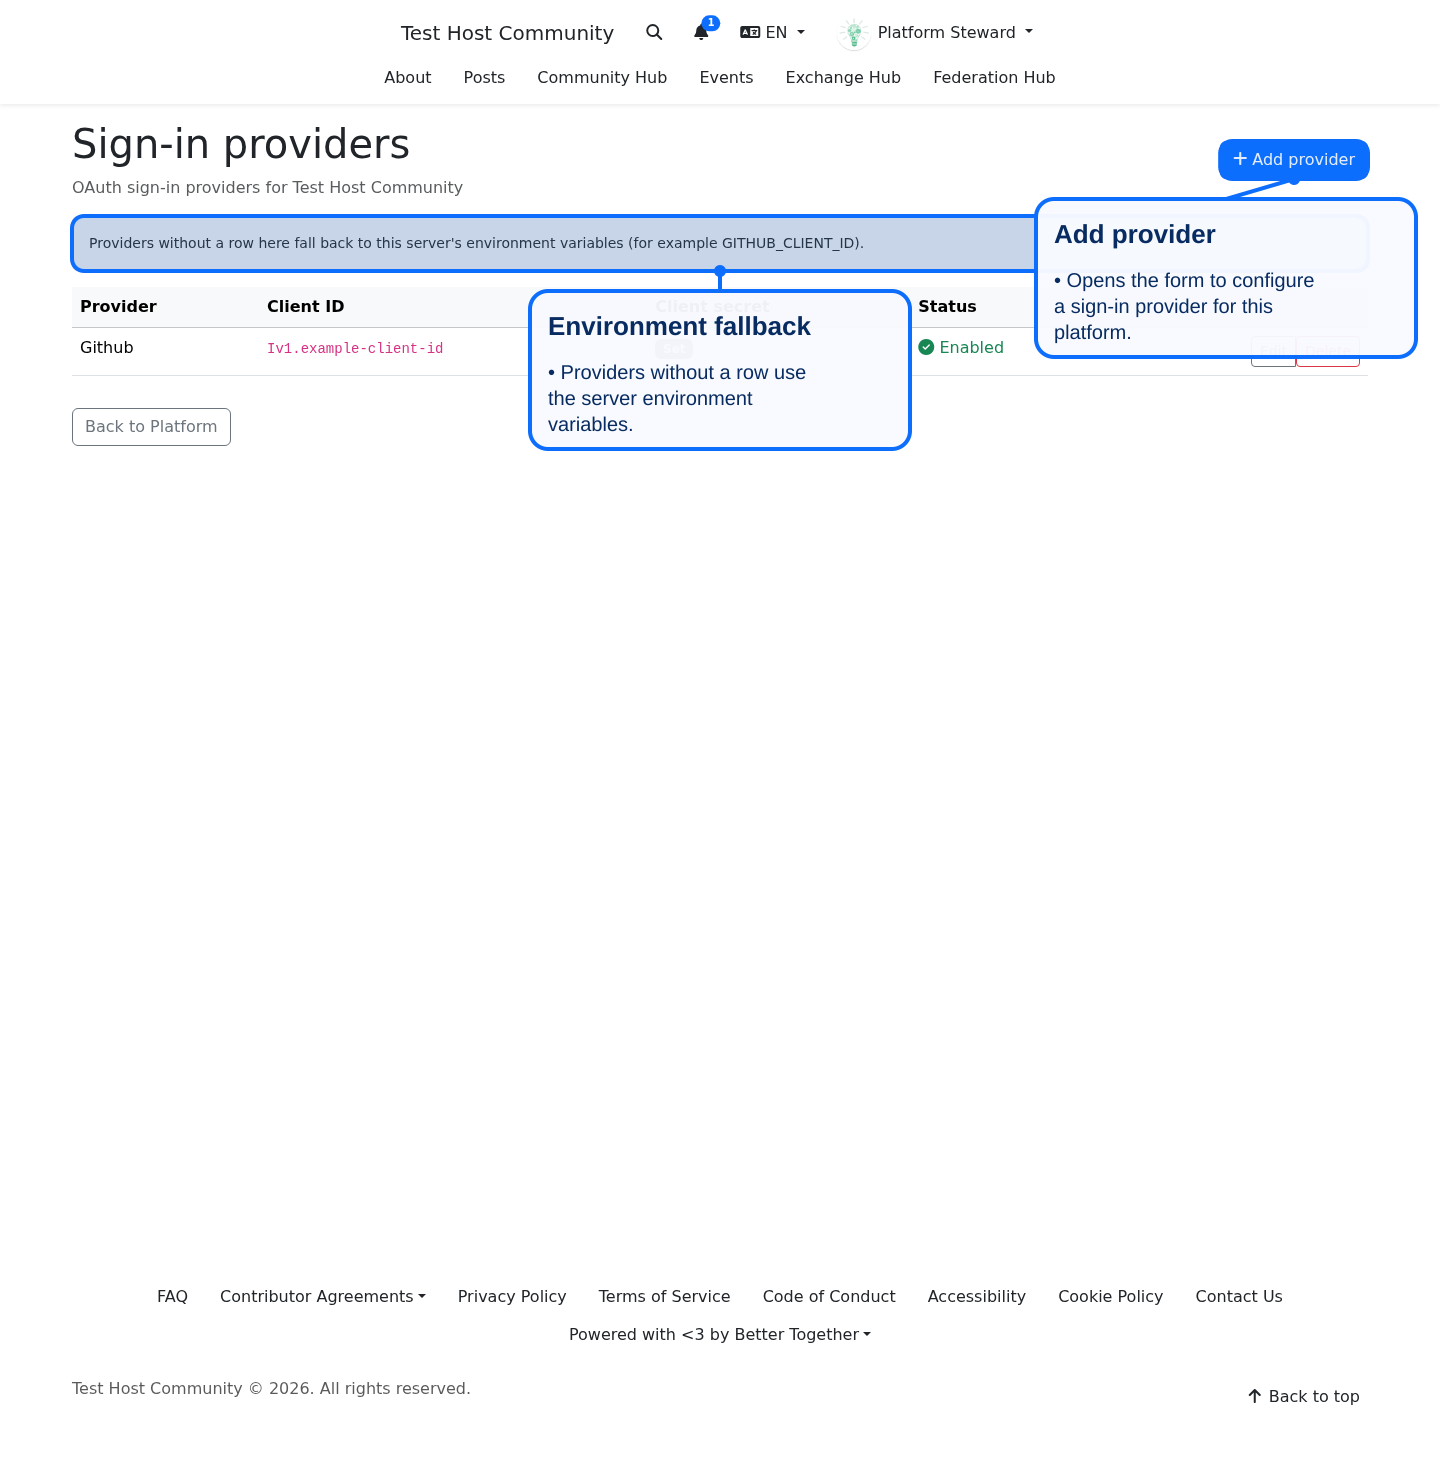
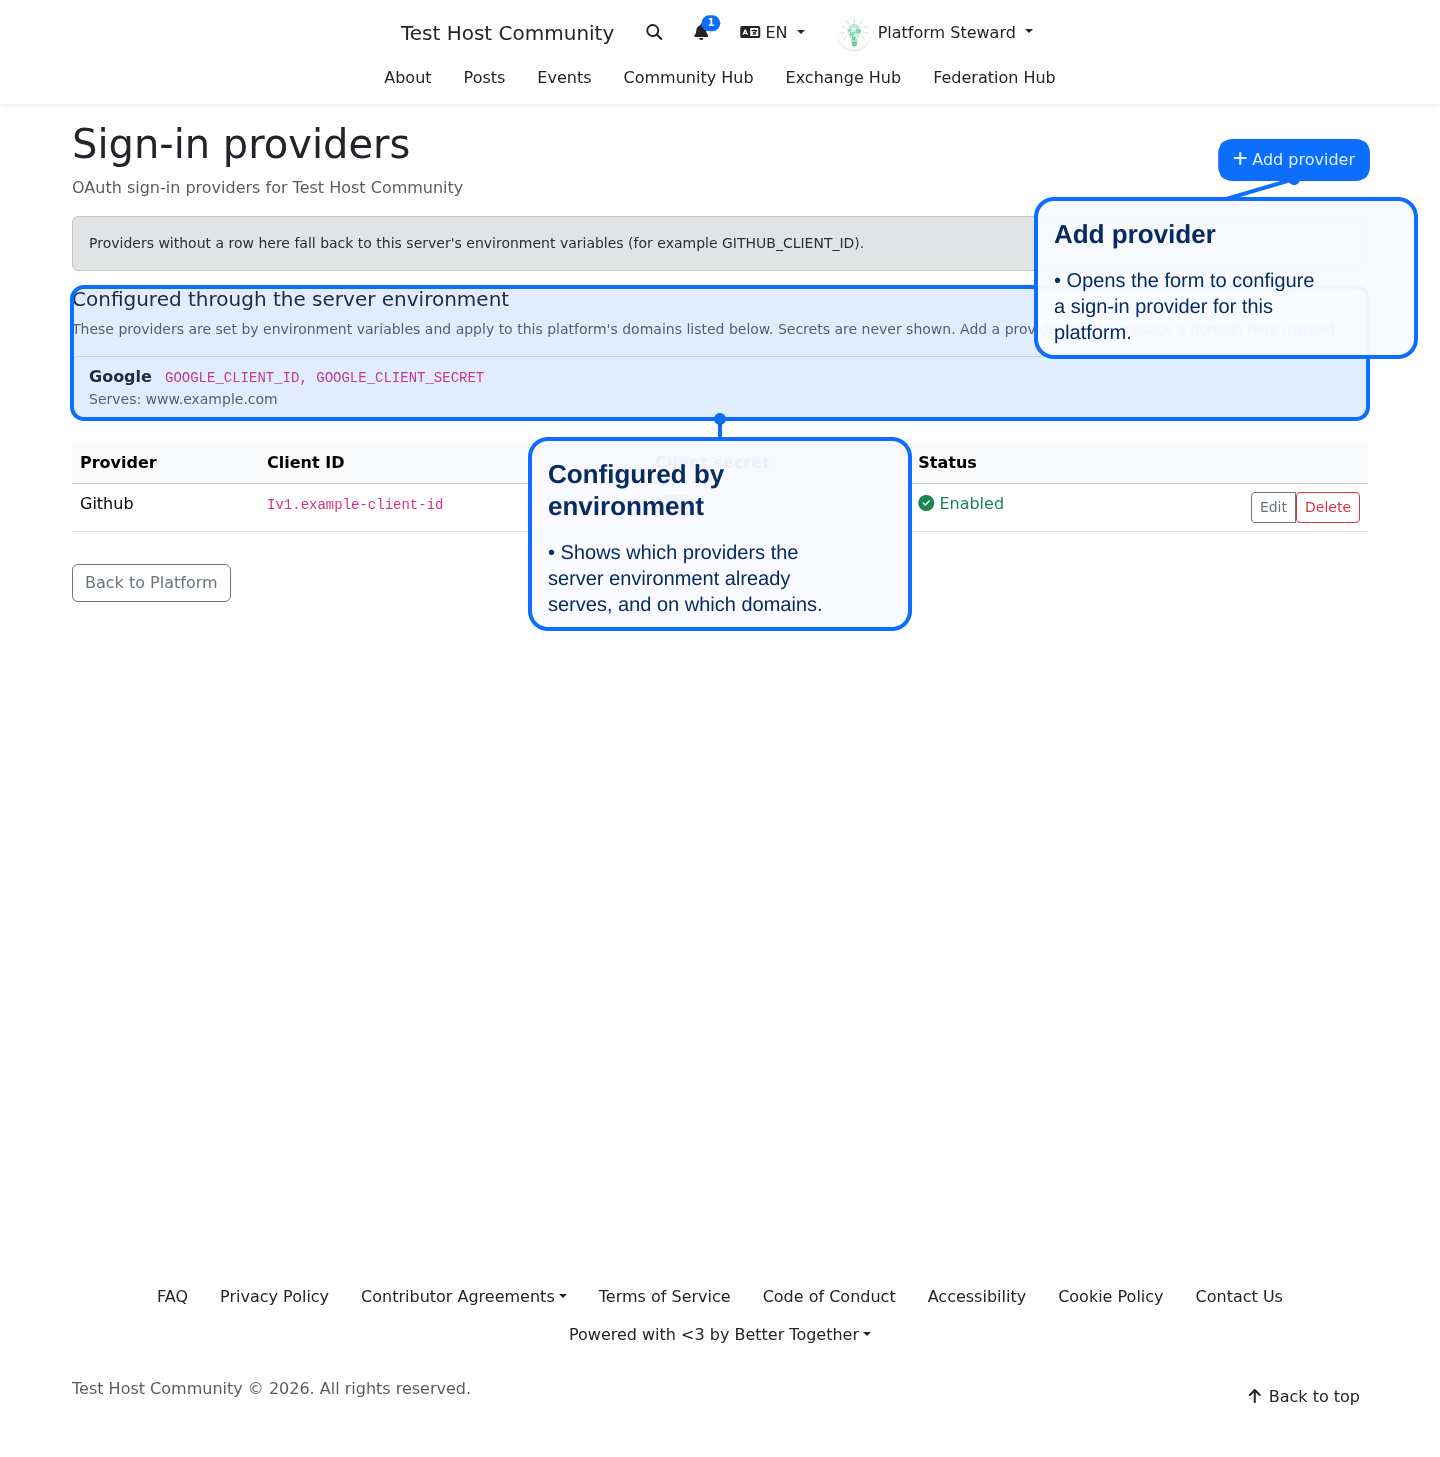
feat(oauth): show environment-configured providers and offer only configured ones to connect
The sign-in providers screen now lists providers served by server environment variables
(names only, never values) with the host domains they still serve. The Settings integrations
tab offers Connect buttons only for providers configured for the current domain.

diff --git a/spec/docs_screenshots/better_together/platform_identity_providers_admin_spec.rb b/spec/docs_screenshots/better_together/platform_identity_providers_admin_spec.rb
@@ -55,8 +55,8 @@ RSpec.describe 'Documentation screenshots for Platform sign-in providers admin U
       callouts: [
         { id: 'new_button', selector: '#new-platform-identity-provider-btn', title: 'Add provider',
           bullets: ['Opens the form to configure a sign-in provider for this platform.'] },
-        { id: 'env_note', selector: '#platform-identity-providers-env-note', title: 'Environment fallback',
-          bullets: ['Providers without a row use the server environment variables.'] }
+        { id: 'env_list', selector: '#platform-identity-providers-env', title: 'Configured by environment',
+          bullets: ['Shows which providers the server environment already serves, and on which domains.'] }
       ],
       narrative: {
         title: 'Sign-in providers: index',
@@ -65,16 +65,20 @@ RSpec.describe 'Documentation screenshots for Platform sign-in providers admin U
                       'OAuth providers this platform offers.',
         callouts: [
           { id: 'new_button', title: 'Add provider', description: 'Opens the new provider form.' },
-          { id: 'env_note', title: 'Environment fallback',
-            description: 'A provider with no row here still works if its environment variables are set.' }
+          { id: 'env_list', title: 'Configured by environment',
+            description: 'Environment-configured providers and the domains they serve; secrets are never shown.' }
         ],
         accessibility_notes: 'The table has an aria-label and a visually hidden Actions header; delete uses a confirm dialog.'
       }
     ) do
+      allow(ENV).to receive(:fetch).and_call_original
+      allow(ENV).to receive(:fetch).with('GOOGLE_CLIENT_ID', nil).and_return('env-google-id')
+      allow(ENV).to receive(:fetch).with('GOOGLE_CLIENT_SECRET', nil).and_return('env-google-secret')
       capybara_login_as_platform_manager
       visit better_together.platform_platform_identity_providers_path(host_platform, locale: I18n.default_locale)
       expect(page).to have_css('#platform-identity-providers-table')
       expect(page).to have_content('Iv1.example-client-id')
+      expect(page).to have_css('#platform-identity-provider-env-google_oauth2')
     end
   end
 

diff --git a/lib/better_together/identity_provider_credentials.rb b/lib/better_together/identity_provider_credentials.rb
@@ -31,6 +31,33 @@ module BetterTogether
       new(key, domain).resolve
     end
 
+    # Providers configured through environment variables for the host platform: for each, the
+    # host domains the environment still serves (those no provider row claims). Never returns values.
+    EnvProvider = Struct.new(:provider, :domains, keyword_init: true)
+
+    def self.env_providers(platform)
+      return [] unless platform&.host?
+
+      domains = platform.platform_domains.active.to_a
+      IdentityProviders.registry.values.select { |provider| env_configured?(provider) }.map do |provider|
+        EnvProvider.new(provider:, domains: domains.reject { |d| claimed?(provider, d) })
+      end
+    end
+
+    def self.env_configured?(provider)
+      return false unless provider.env_id && provider.env_secret
+
+      ENV.fetch(provider.env_id, nil).present? && ENV.fetch(provider.env_secret, nil).present?
+    end
+    private_class_method :env_configured?
+
+    def self.claimed?(provider, domain)
+      PlatformIdentityProviderDomain.joins(:platform_identity_provider)
+                                    .exists?(platform_domain_id: domain.id,
+                                             PlatformIdentityProvider.table_name => { strategy: provider.key.to_s })
+    end
+    private_class_method :claimed?
+
     def self.configured?(key, domain:)
       resolve(key, domain:)&.then { |r| r.client_id.present? && r.client_secret.present? } || false
     end

diff --git a/spec/lib/better_together/identity_provider_credentials_env_providers_spec.rb b/spec/lib/better_together/identity_provider_credentials_env_providers_spec.rb
@@ -1,0 +1,35 @@
+# frozen_string_literal: true
+
+require 'rails_helper'
+
+RSpec.describe BetterTogether::IdentityProviderCredentials, '.env_providers' do
+  let!(:host_platform) { configure_host_platform }
+  let(:host_domain) { ensure_host_platform_domain(host_platform) }
+
+  before { stub_provider_env('GITHUB_CLIENT_ID', 'GITHUB_CLIENT_SECRET') }
+
+  it 'lists env-configured providers with the host domains they serve', :aggregate_failures do
+    host_domain
+    result = described_class.env_providers(host_platform).find { |e| e.provider.key == :github }
+
+    expect(result.domains).to eq([host_domain])
+  end
+
+  it 'omits providers whose env vars are not set' do
+    host_domain
+
+    expect(described_class.env_providers(host_platform).map { |e| e.provider.key }).not_to include(:google_oauth2)
+  end
+
+  it 'drops domains a provider row claims' do
+    row = create(:better_together_platform_identity_provider, platform: host_platform,
+                                                              provider_platform: create(:better_together_platform, external: true))
+    row.update!(platform_domains: [host_domain])
+
+    expect(described_class.env_providers(host_platform).find { |e| e.provider.key == :github }.domains).to be_empty
+  end
+
+  it 'returns nothing for a non-host platform' do
+    expect(described_class.env_providers(create(:better_together_platform))).to eq([])
+  end
+end

diff --git a/spec/requests/better_together/platform_identity_providers_spec.rb b/spec/requests/better_together/platform_identity_providers_spec.rb
@@ -30,6 +30,23 @@ RSpec.describe 'Platform identity providers admin', :as_platform_manager do # ru
     end
   end
 
+  describe 'GET index with environment-configured providers' do
+    it 'shows them without exposing values', :aggregate_failures do
+      domain = BetterTogether::PlatformDomain.find_or_create_by!(hostname: 'www.example.com') do |d|
+        d.platform = platform
+        d.active = true
+        d.primary_flag = true
+      end
+      allow(ENV).to receive(:fetch).and_call_original
+      allow(ENV).to receive(:fetch).with('GITHUB_CLIENT_ID', nil).and_return('env-client-id')
+      allow(ENV).to receive(:fetch).with('GITHUB_CLIENT_SECRET', nil).and_return('env-client-secret')
+      get base
+
+      expect(page_html.css('#platform-identity-provider-env-github').text).to include(domain.hostname)
+      expect(response.body).not_to include('env-client-id', 'env-client-secret')
+    end
+  end
+
   describe 'POST create' do
     let(:params) do
       { platform_identity_provider: { strategy: 'github', client_id: 'abc', client_secret: 's3cret', enabled: '1' } }

diff --git a/spec/views/better_together/person_platform_integrations/_integrations_list.html.erb_spec.rb b/spec/views/better_together/person_platform_integrations/_integrations_list.html.erb_spec.rb
@@ -1,0 +1,23 @@
+# frozen_string_literal: true
+
+require 'rails_helper'
+
+RSpec.describe 'better_together/person_platform_integrations/_integrations_list' do
+  before do
+    view.extend BetterTogether::OauthButtonsHelper
+    configure_host_platform
+    ensure_host_platform_domain
+    stub_provider_env('GITHUB_CLIENT_ID', 'GITHUB_CLIENT_SECRET')
+    allow(view).to receive(:omniauth_authorize_path) { |_scope, provider| "/users/auth/#{provider}" }
+  end
+
+  it 'offers only providers configured for this domain', :aggregate_failures do
+    render partial: 'better_together/person_platform_integrations/integrations_list',
+           locals: { person_platform_integrations: [] }
+
+    expect(rendered).to include('/users/auth/github')
+    expect(rendered).not_to include('/users/auth/google_oauth2')
+    expect(rendered).not_to include('/users/auth/facebook')
+    expect(rendered).not_to include('/users/auth/openid_connect')
+  end
+end

diff --git a/spec/dom_contracts/platform_identity_providers_spec.rb b/spec/dom_contracts/platform_identity_providers_spec.rb
@@ -23,6 +23,15 @@ RSpec.describe 'Platform identity providers DOM contract', :as_platform_manager,
     end
   end
 
+  it 'exposes the environment providers section when env providers exist', :aggregate_failures do
+    allow(ENV).to receive(:fetch).and_call_original
+    allow(ENV).to receive(:fetch).with('GITHUB_CLIENT_ID', nil).and_return('x')
+    allow(ENV).to receive(:fetch).with('GITHUB_CLIENT_SECRET', nil).and_return('y')
+    get base
+
+    expect(page_html.css('#platform-identity-providers-env .platform-identity-provider-env-item')).not_to be_empty
+  end
+
   it 'exposes the form hooks', :aggregate_failures do
     get "#{base}/new"
 

diff --git a/app/controllers/better_together/platform_identity_providers_controller.rb b/app/controllers/better_together/platform_identity_providers_controller.rb
@@ -13,6 +13,7 @@ module BetterTogether
     def index
       authorize @platform.platform_identity_providers.build
       @identity_providers = @platform.platform_identity_providers.order(:position, :created_at)
+      @env_providers = IdentityProviderCredentials.env_providers(@platform)
     end
 
     def new
